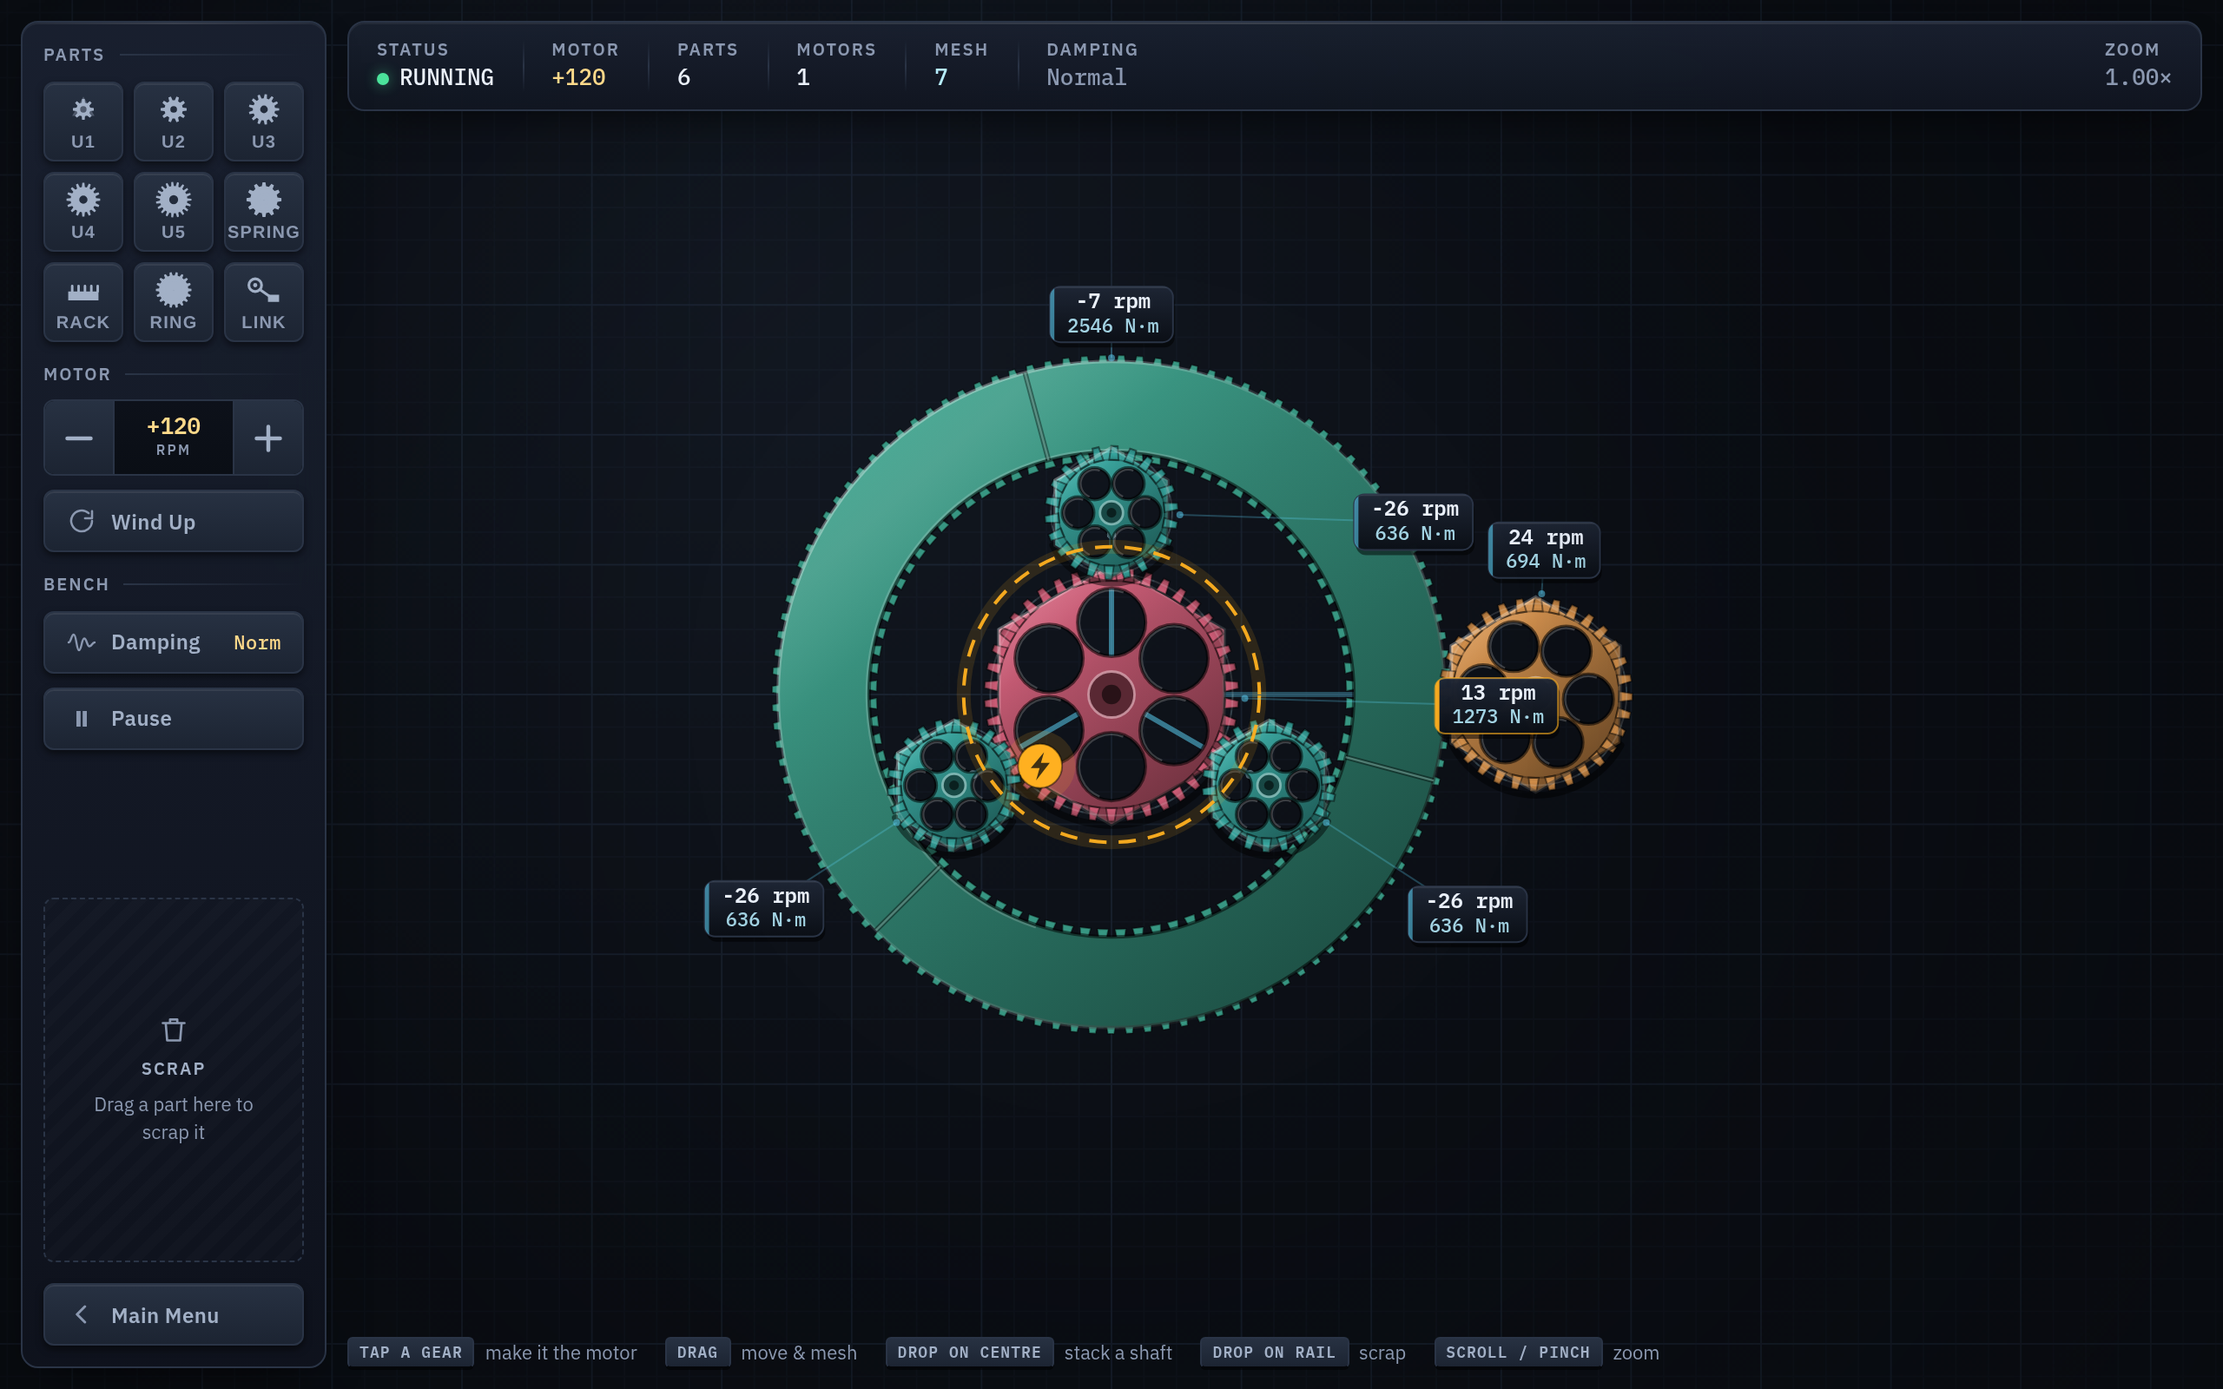
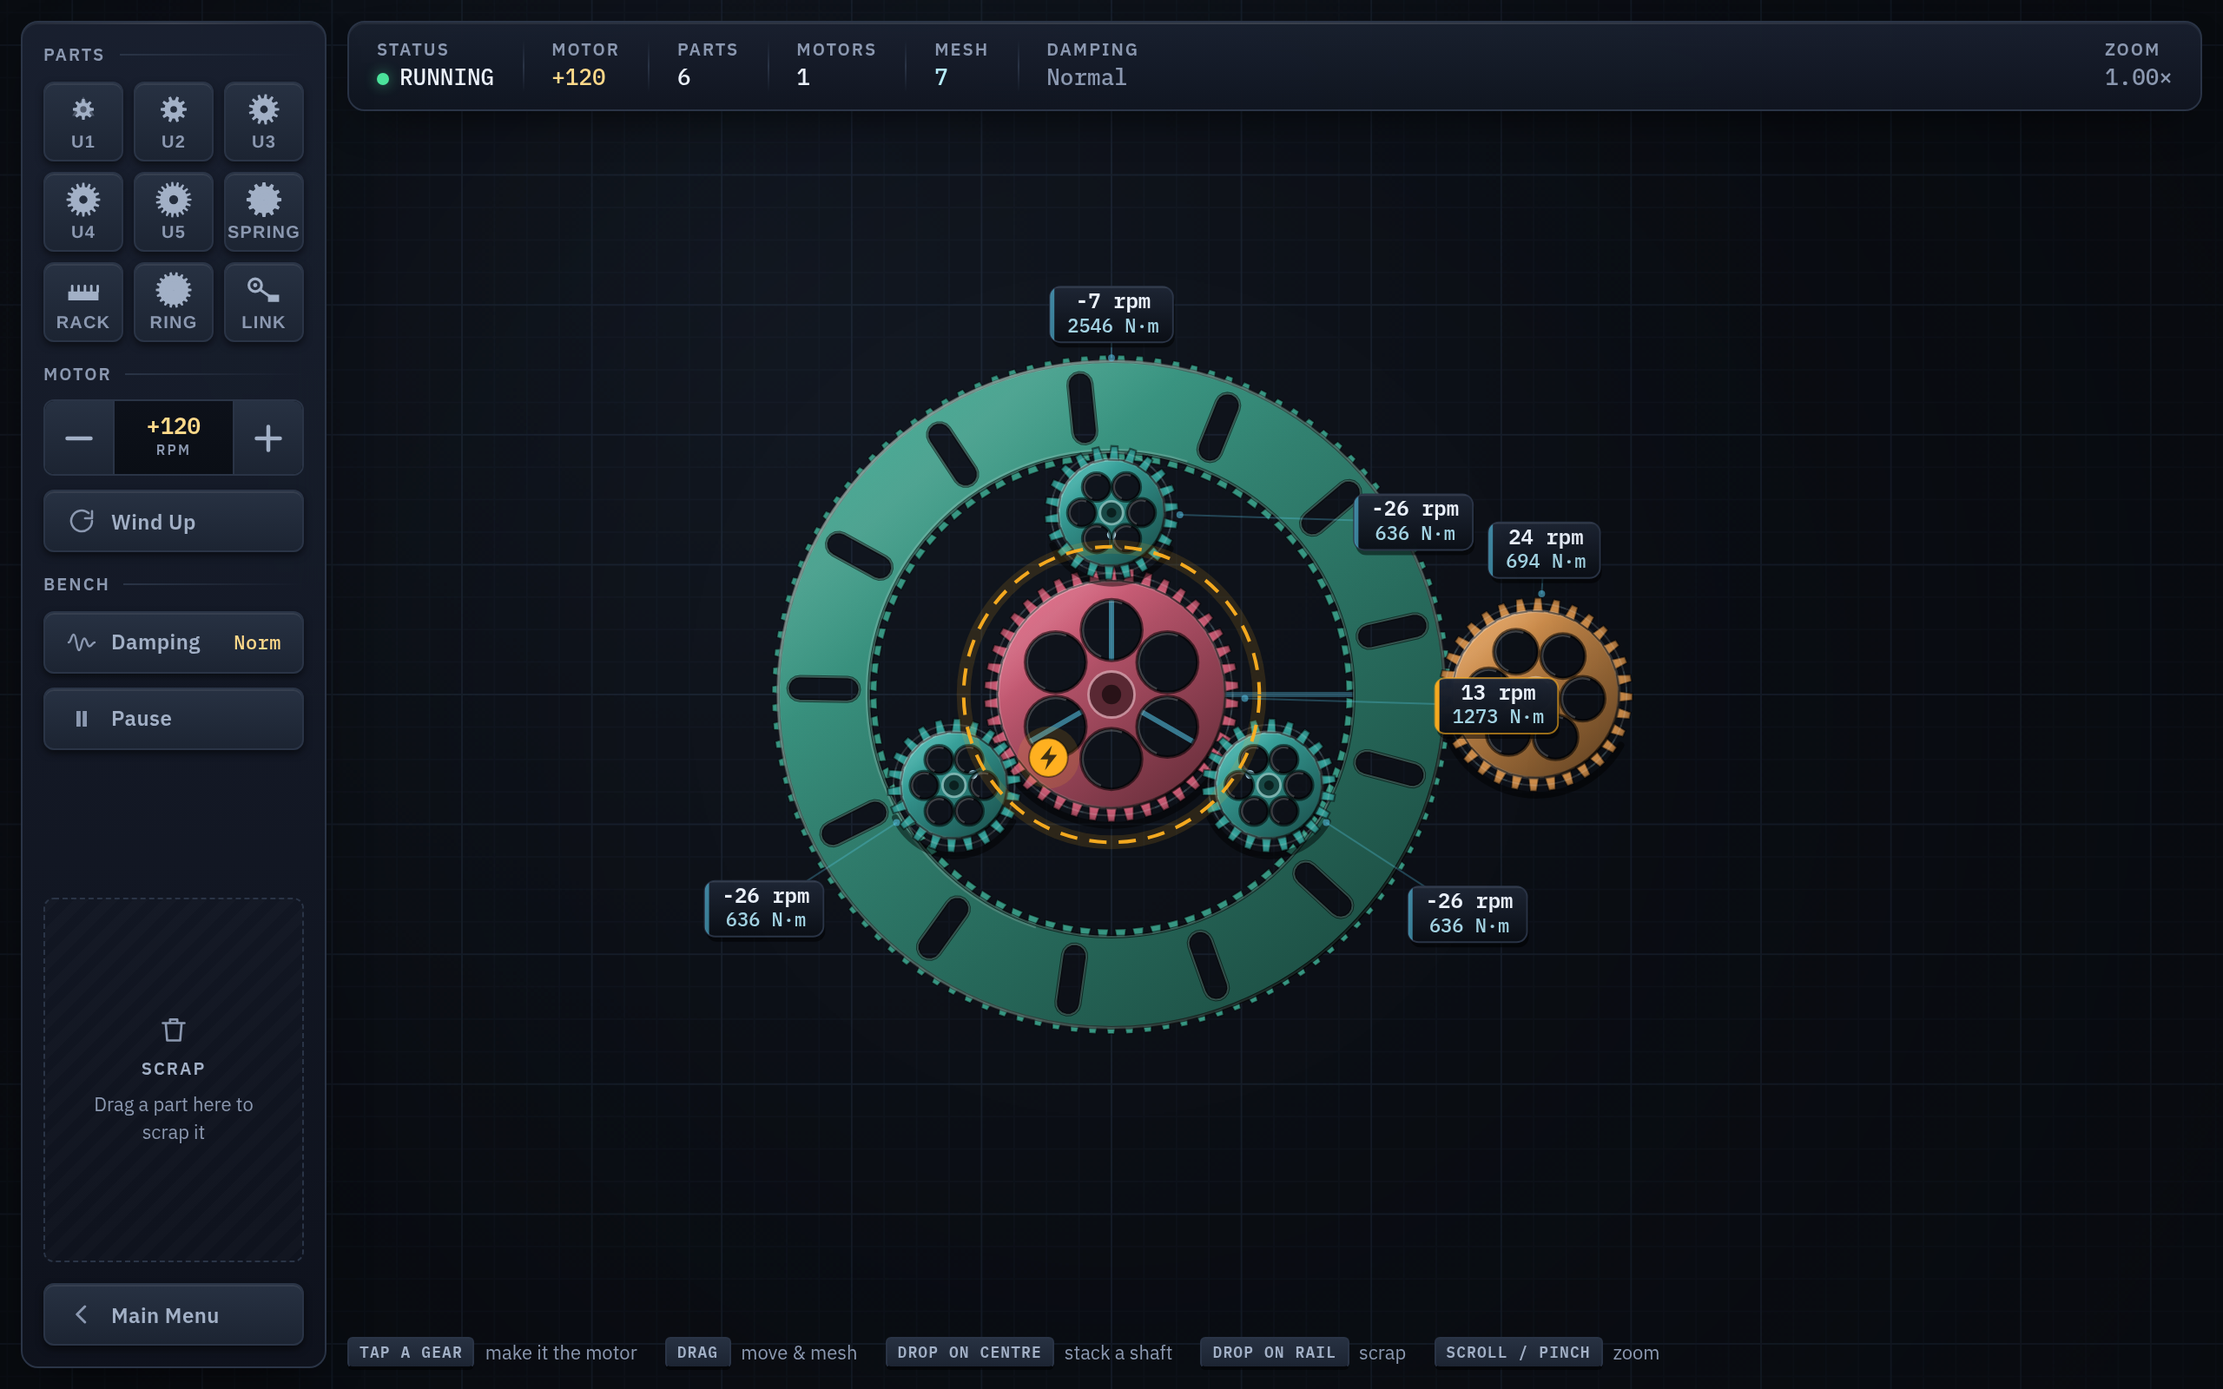
Round gear blanks, slotted ring rim, slotted rack
Presentation only — the physics fingerprint is re-anchored against the
pre-overhaul build (ff07b59) across all seven scenes and reproduces exactly.

Shapes
  - The hex plates are gone. A gear body is now a disc out to the root
    circle with the teeth standing proud of it, which is what a cut gear
    actually looks like. The web holes shrank slightly so there is a real
    web between them and the rim instead of a 1px sliver.
  - The U1 triangle stays a triangle: level 5's hint names it by shape
    ("spin the little triangle gear"), so rounding it would make the level
    text wrong. Say the word and I'll round it and reword the level.
  - Deleted the now-dead hex geometry: hex_vertices, gear_windows and the
    vertex_points_world methods, none of which had callers.

Openings, both punched with even-odd so the field genuinely shows through
  - Ring gear: radial slots milled through the rim, count scaled to the
    rim/circumference ratio. They turn with the ring and replace the painted
    registration marks. The body is clipped in the rotated frame and then
    painted unrotated, so the slots turn while the light stays put.
  - Rack: one capped slot down the longitudinal centreline, inset from the
    ends so the bar stays continuous, plus a lit lip along its upper edge.

Also adds a `mechanism` scene (rack + pinion, crank linkage, wound spring) —
none of the existing scenes contained a rack, so the new slot was invisible
[…]

diff --git a/gear_works.html b/gear_works.html
@@ -853,10 +853,11 @@ const G = {
     c.setLineDash(_dashNone); c.lineDashOffset = 0;
   },
   // rounded-rect path in CANVAS coords (y already flipped)
-  roundRect(x, y, w, h, r) {
+  roundRect(x, y, w, h, r) { this.ctx.beginPath(); this.addRoundRect(x, y, w, h, r); },
+  // ...as a SUBPATH, so it can be punched out of an even-odd fill
+  addRoundRect(x, y, w, h, r) {
     const c = this.ctx;
     r = Math.min(r, w / 2, h / 2);
-    c.beginPath();
     c.moveTo(x + r, y);
     c.arcTo(x + w, y, x + w, y + h, r);
     c.arcTo(x + w, y + h, x, y + h, r);
@@ -897,25 +898,6 @@ const _measCache = new Map();
 // ============================================================
 // Drawing helpers (ported)
 // ============================================================
-function hex_vertices(cx, cy, r) {
-  const v = [];
-  for (let k = 0; k < 6; k++) { const a = (60*k + 30) * Math.PI/180; v.push([cx + r*Math.cos(a), cy + r*Math.sin(a)]); }
-  return v;
-}
-// The see-through windows in a gear body: a ring of circles around the hub, made
-// as large as possible without touching the teeth (outer limit) or each other
-// (mutual limit). Those two limits balance when ringR*(1 + sin(pi/n)) = r_teeth.
-// Same geometry is used to punch holes in the body and to stroke their outlines.
-function gear_windows(cx, cy, pitch_r, angle, tooth_inner_r) {
-  const n = 6, sinp = Math.sin(Math.PI / n);                 // 0.5 for n = 6
-  const rLim = (tooth_inner_r || pitch_r * 0.85) - pitch_r * 0.045;   // sit just inside the teeth
-  const ringR = rLim / (1 + sinp);
-  const dotR = ringR * sinp * 0.94;                          // small gap between windows
-  const out = [];
-  for (let k = 0; k < n; k++) { const a = angle + (k / n) * TAU; out.push([cx + ringR*Math.cos(a), cy + ringR*Math.sin(a), dotR]); }
-  return out;
-}
-
 // ============================================================
 // MACHINED MATERIAL — the one place a part's look is derived from its alloy.
 // Everything is built in LOCAL canvas space (y-down, origin at the part centre)
@@ -990,12 +972,53 @@ function bevel_stroke(ctx, R) {
     return g;
   });
 }
+// A ring's body: outer circle, bore, and N milled radial slots — all one
+// even-odd path, so the slots are genuinely see-through. Caps are polylined
+// rather than arc()-ed to keep the angle bookkeeping honest at any rotation.
+function ring_body_path(ri, ro, n) {
+  ri = _q(ri); ro = _q(ro);
+  return _pathC("RB" + ri + "|" + ro + "|" + n, () => {
+    const p = new Path2D();
+    p.moveTo(ro, 0); p.arc(0, 0, ro, 0, TAU);
+    p.moveTo(ri, 0); p.arc(0, 0, ri, 0, TAU);
+    const rim = ro - ri;
+    // Margins eat length twice over (once per end, plus a cap radius each), so
+    // keep them small or the "slot" collapses into a round hole.
+    const cap = Math.max(1.5, rim * 0.13);
+    const rA = ri + rim * 0.11 + cap, rB = ro - rim * 0.11 - cap;
+    if (rB > rA) {
+      const STEPS = 8;
+      for (let i = 0; i < n; i++) {
+        const a = (i / n) * TAU, ca = Math.cos(a), sa = Math.sin(a);
+        let first = true;
+        // local slot frame: x along the radius, y across it
+        const put = (x, y) => {
+          const X = x * ca - y * sa, Y = x * sa + y * ca;
+          if (first) { p.moveTo(X, Y); first = false; } else p.lineTo(X, Y);
+        };
+        put(rA, cap); put(rB, cap);
+        for (let k = 1; k < STEPS; k++) {                 // outer cap
+          const t = Math.PI / 2 - (k / STEPS) * Math.PI;
+          put(rB + cap * Math.cos(t), cap * Math.sin(t));
+        }
+        put(rB, -cap); put(rA, -cap);
+        for (let k = 1; k < STEPS; k++) {                 // inner cap
+          const t = -Math.PI / 2 - (k / STEPS) * Math.PI;
+          put(rA + cap * Math.cos(t), cap * Math.sin(t));
+        }
+        p.closePath();
+      }
+    }
+    return p;
+  });
+}
+
 // Scratch buffer for the rotating window holes: [x, y, r] triples, canvas coords.
 const _win = new Float64Array(24);
 let _winN = 0;
 function local_windows(pitch_r, angle, tooth_inner_r, extraR) {
   const n = 6, sinp = 0.5;
-  const rLim = (tooth_inner_r || pitch_r * 0.85) - pitch_r * 0.045;
+  const rLim = (tooth_inner_r || pitch_r * 0.85) - pitch_r * 0.14;
   const ringR = rLim / (1 + sinp);
   const dotR = ringR * sinp * 0.94;
   _winN = 0;
@@ -1083,6 +1106,11 @@ function paint_gear(ctx, base, R, kind, rot, pitch_r, teeth, ri, ro, angle, extr
 }
 // Trace a plate outline onto the current context path (no allocation).
 function _trace_plate(ctx, kind, R, rot) {
+  if (kind === "disc") {
+    ctx.moveTo(R, 0);
+    ctx.arc(0, 0, R, 0, TAU);
+    return;
+  }
   if (kind === "tri") {
     for (let k = 0; k < 3; k++) {
       const a = -(k * TAU / 3 + Math.PI / 2 + (rot || 0));
@@ -1245,7 +1273,6 @@ class HexGearTile extends TileBase {
   // Central window when stacked: reveal as much of the partner as we can, but keep
   // it inside our own window ring so our teeth/rim stay intact.
   _central_window_r() { return this.partner ? Math.min(this.Rp*0.50, Math.max(this.partner.pitch_r()*1.02, this.Rp*0.30)) : 0; }
-  vertex_points_world() { return hex_vertices(this.pos[0], this.pos[1], this.R); }
   hit_radius() { return this.R*0.95; }
   draw() {
     const x = this.pos[0], y = this.pos[1], ctx = G.ctx;
@@ -1255,7 +1282,9 @@ class HexGearTile extends TileBase {
     const extra = this.partner ? this._central_window_r() : 0;
     ctx.save();
     ctx.translate(x, G.fy(y));
-    paint_gear(ctx, base, this.R, "hex", 0, this.Rp, this.teeth,
+    // The blank is a disc out to the root circle, so the teeth stand proud of it
+    // exactly the way a cut gear does.
+    paint_gear(ctx, base, this.tooth_inner_r, "disc", 0, this.Rp, this.teeth,
                this.tooth_inner_r, this.tooth_outer_r, this.angle, extra,
                this.is_spring() ? _SPRING_OPTS : _PLAIN_OPTS);
     if (this.is_spring()) paint_spring_spiral(ctx, this.Rp, this.angle, this.wind || 0);
@@ -1269,7 +1298,7 @@ class HexGearTile extends TileBase {
       ctx.fillStyle = T.amber; ctx.fill();
       ctx.strokeStyle = "rgba(0,0,0,0.5)"; ctx.lineWidth = 1; ctx.stroke();
     }
-    if (this.is_driver) paint_motor_badge(ctx, -this.R * 0.55, this.R * 0.55, Math.max(4, this.R * 0.17));
+    if (this.is_driver) paint_motor_badge(ctx, -this.Rp * 0.52, this.Rp * 0.52, Math.max(4, this.Rp * 0.16));
     ctx.restore();
     if (this.locked) draw_lock_x(x, y, this.R);
     if (this.is_spring()) {
@@ -1296,7 +1325,6 @@ class TriGearTile extends TileBase {
     for (let k = 0; k < 3; k++) { const a = a0 + k*TAU/3 + Math.PI/2; v.push([x + r*Math.cos(a), y + r*Math.sin(a)]); }
     return v;
   }
-  vertex_points_world() { return this.triangle_vertices_world(); }
   draw() {
     const x = this.pos[0], y = this.pos[1], ctx = G.ctx;
     const R = this.Rp_small * 1.5;
@@ -1343,7 +1371,6 @@ class RackTile extends TileBase {
   }
   contains(p) { const l = this.local(p); return Math.abs(l[0]) <= this.len*0.5 && Math.abs(l[1]) <= this.thick*2.2; }
   hit_radius() { return this.len*0.5; }
-  vertex_points_world() { return []; }
   draw() {
     const ctx = G.ctx, u = this.dir(), h = this.len * 0.5, th = this.thick;
     const base = T.alloyRack;
@@ -1366,8 +1393,12 @@ class RackTile extends TileBase {
     }
     ctx.fillStyle = shadeHex(base, 1.16); ctx.fill();
     ctx.strokeStyle = "rgba(0,0,0,0.4)"; ctx.lineWidth = 0.9; ctx.stroke();
-    // milled bar body
-    G.roundRect(-h, -th, this.len, th * 2, 3);
+    // Milled bar body with a see-through slot down the longitudinal centreline.
+    // Both outlines go into one path so the slot is punched, not painted.
+    ctx.beginPath();
+    G.addRoundRect(-h, -th, this.len, th * 2, 3);
+    const slotH = th * 0.66, slotL = this.len - th * 4;
+    if (slotL > th) G.addRoundRect(-slotL / 2, -slotH / 2, slotL, slotH, slotH / 2);
     ctx.fillStyle = _gradC("RK" + _q(th), () => {
       const g = ctx.createLinearGradient(0, -th, 0, th);
       g.addColorStop(0, shadeHex(base, T.facetLight));
@@ -1375,11 +1406,16 @@ class RackTile extends TileBase {
       g.addColorStop(1, shadeHex(base, T.facetDark));
       return g;
     });
-    ctx.fill();
+    ctx.fill("evenodd");
     ctx.strokeStyle = "rgba(0,0,0,0.5)"; ctx.lineWidth = 1.5; ctx.stroke();
-    // engraved centreline + the two pitch lines the teeth stand on
-    ctx.beginPath(); ctx.moveTo(-h + 4, 0); ctx.lineTo(h - 4, 0);
-    ctx.strokeStyle = "rgba(0,0,0,0.35)"; ctx.lineWidth = 1; ctx.stroke();
+    // a lit lip along the slot's upper edge so it reads as cut through
+    if (slotL > th) {
+      ctx.beginPath();
+      ctx.moveTo(-slotL / 2 + slotH / 2, -slotH / 2);
+      ctx.lineTo(slotL / 2 - slotH / 2, -slotH / 2);
+      ctx.strokeStyle = "rgba(255,255,255,0.16)"; ctx.lineWidth = 1; ctx.stroke();
+    }
+    // the two pitch lines the teeth stand on
     ctx.beginPath();
     ctx.moveTo(-h, -th); ctx.lineTo(h, -th); ctx.moveTo(-h, th); ctx.lineTo(h, th);
     ctx.strokeStyle = "rgba(255,255,255,0.22)"; ctx.lineWidth = 1; ctx.stroke();
@@ -1414,7 +1450,6 @@ class RingGearTile extends TileBase {
   friction_b(rp_ref) { const s = rp_ref <= 1e-9 ? 1 : Math.pow(this.outer_pr/rp_ref, FRICTION_B_SCALE_R); return DAMPING.friction*s; }
   hit_radius() { return this.outer_pr*1.02; }
   contains(p) { const d = dist(this.pos, p); return d <= this.outer_pr*1.06 && d >= this.inner_pr*0.78; }  // the rim, not the hole
-  vertex_points_world() { return []; }
   // Filled teeth standing on one of the pitch circles.
   _teeth_on(ctx, radius, inward) {
     const cp = this.module * Math.PI;
@@ -1438,6 +1473,8 @@ class RingGearTile extends TileBase {
   draw() {
     const ctx = G.ctx, base = T.alloyRing;
     const ri = this.inner_pr, ro = this.outer_pr;
+    const nSlot = clampf(Math.round(TAU * ((ri + ro) / 2) / (ro - ri) / 1.55), 6, 16) | 0;
+    const body = ring_body_path(ri, ro, nSlot);
     ctx.save();
     ctx.translate(this.pos[0], G.fy(this.pos[1]));
     // teeth first, under the rim, so the rim edge cuts them cleanly
@@ -1445,29 +1482,25 @@ class RingGearTile extends TileBase {
     this._teeth_on(ctx, ro, false);
     this._teeth_on(ctx, ri, true);
     ctx.restore();
-    // annular rim: outer disc with the bore punched see-through
-    ctx.beginPath();
-    ctx.arc(0, 0, ro, 0, TAU);
-    ctx.moveTo(ri, 0); ctx.arc(0, 0, ri, 0, TAU);
-    ctx.fillStyle = plate_fill(ctx, base, ro); ctx.fill("evenodd");
-    ctx.fillStyle = plate_spec(ctx, base, ro); ctx.fill("evenodd");
-    // bevels on both edges of the rim
+    // Body. The slots turn with the ring but the light does not, so clip in the
+    // rotated frame, then rotate back before painting the fixed-direction fills.
+    ctx.save();
+    ctx.rotate(-this.angle);
+    ctx.clip(body, "evenodd");
+    ctx.rotate(this.angle);
+    ctx.fillStyle = plate_fill(ctx, base, ro); ctx.fillRect(-ro, -ro, 2 * ro, 2 * ro);
+    ctx.fillStyle = plate_spec(ctx, base, ro); ctx.fillRect(-ro, -ro, 2 * ro, 2 * ro);
+    ctx.restore();
+    // engraved edges on every opening, including the slots
+    ctx.save(); ctx.rotate(-this.angle);
+    ctx.strokeStyle = "rgba(0,0,0,0.55)"; ctx.lineWidth = 2; ctx.stroke(body);
+    ctx.strokeStyle = ca(liftHex(base, 0.4), 0.35); ctx.lineWidth = 1; ctx.stroke(body);
+    ctx.restore();
+    // rim bevels
     ctx.beginPath(); ctx.arc(0, 0, ro, 0, TAU);
     ctx.strokeStyle = bevel_stroke(ctx, ro); ctx.lineWidth = 2; ctx.stroke();
-    ctx.beginPath(); ctx.arc(0, 0, ri, 0, TAU);
-    ctx.strokeStyle = "rgba(0,0,0,0.5)"; ctx.lineWidth = 2; ctx.stroke();
     ctx.beginPath(); ctx.arc(0, 0, ri + 1.5, 0.6 * Math.PI, 1.6 * Math.PI);
-    ctx.strokeStyle = "rgba(255,255,255,0.18)"; ctx.lineWidth = 1.2; ctx.stroke();
-    // registration marks milled across the rim so the hoop reads as turning
-    ctx.save(); ctx.rotate(-this.angle);
-    ctx.beginPath();
-    for (const m of [0, TAU / 3, 2 * TAU / 3]) {
-      ctx.moveTo(ri * Math.cos(m), ri * Math.sin(m));
-      ctx.lineTo(ro * Math.cos(m), ro * Math.sin(m));
-    }
-    ctx.strokeStyle = "rgba(0,0,0,0.4)"; ctx.lineWidth = 3; ctx.stroke();
-    ctx.strokeStyle = ca(liftHex(base, 0.4), 0.55); ctx.lineWidth = 1.2; ctx.stroke();
-    ctx.restore();
+    ctx.strokeStyle = "rgba(255,255,255,0.16)"; ctx.lineWidth = 1.2; ctx.stroke();
     ctx.restore();
     if (this.locked) draw_lock_x(this.pos[0], this.pos[1], this.outer_pr * 0.5);
   }

diff --git a/DESIGN.md b/DESIGN.md
@@ -86,14 +86,31 @@ CSS custom properties on `:root` (for chrome) and the `T` object (for canvas).
 | Token | Hex | Part |
 | --- | --- | --- |
 | `--alloy-u1` | `#7C5FB4` | U1 triangle — anodised violet |
-| `--alloy-u2` | `#2E8B85` | U2 small hex — anodised teal |
-| `--alloy-u3` | `#B0783F` | U3 hex — anodised bronze |
-| `--alloy-u4` | `#AC4D63` | U4 hex — anodised crimson |
-| `--alloy-u5` | `#5062B4` | U5 hex — anodised indigo |
+| `--alloy-u2` | `#2E8B85` | U2 — anodised teal |
+| `--alloy-u3` | `#B0783F` | U3 — anodised bronze |
+| `--alloy-u4` | `#AC4D63` | U4 — anodised crimson |
+| `--alloy-u5` | `#5062B4` | U5 — anodised indigo |
 | `--alloy-sp` | `#3F8A57` | spring gear — anodised green |
 | `--alloy-rack` | `#5B6580` | rack bar — raw steel |
 | `--alloy-ring` | `#2F7F6E` | ring gear — anodised sea |
 | `--alloy-rod` | `#D2A24A` | linkage rod — brass |
+
+### Part silhouettes
+
+Gears are **cut blanks, not tiles**. The body is a disc out to the root circle with the
+teeth standing proud of it, exactly the way a cut gear looks, and six lightening holes are
+bored through the web — genuinely see-through, which is what lets a stacked gear read
+through the one on top of it. The U1 triangle keeps its plate: it is the one part the level
+content names by shape ("spin the little triangle gear"), so it stays a triangle.
+
+Two parts carry openings of their own, both punched with the same even-odd technique so
+the field shows through:
+
+- **Ring gear** — radial slots milled through the rim, count scaled to the rim/circumference
+  ratio. They turn with the ring and replaced the old registration marks, which they do a
+  better job of than a painted line ever did.
+- **Rack** — one slot down the longitudinal centreline, capped at both ends, inset from the
+  bar's ends so the body stays continuous.
 
 Every alloy gets a machined treatment derived from the base hex: `×1.34` top-left facet,
 `×0.62` bottom-right facet, a 12°-wide specular sweep at `+38%` lightness, and a
